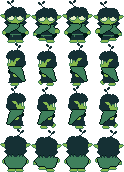
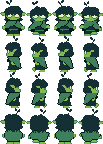
prueba personaje

diff --git a/src/logic/Sprite.js b/src/logic/Sprite.js
@@ -83,10 +83,10 @@ export class Sprite {
 
         // Dibujar personaje
         this.isLoaded && ctx.drawImage(this.image, 
-            frameX * 31, frameY * 43, 
-            31, 43,                   
+            frameX * 26, frameY * 36, 
+            26, 36,                   
             x, y,                     
-            31, 43                    
+            26, 36                    
         );
 
         this.updateAnimationProgress();